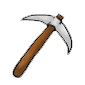
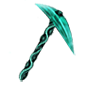
We can now equip items after we've picked it up

Changed region(s): [[0.1412, 0.0235, 0.8941, 0.9647]]

diff --git a/WinterDreams/Player.cpp b/WinterDreams/Player.cpp
@@ -47,6 +47,7 @@ PlayerSpecs& PlayerSpecs::get() {
 Player::Player(sf::FloatRect initialPosition, int lightLevel, bool startEnabled) :
 	GraphicalEntity( startEnabled ),
 	mActionCooldown( 0 ),
+	mIsActionActive( false),
 	mInventory (Inventory() ),
 	mMoveSpeed( PlayerSpecs::get().mMoveSpeed ),
 	mMovementMode(NORMAL),
@@ -58,14 +59,7 @@ Player::Player(sf::FloatRect initialPosition, int lightLevel, bool startEnabled)
 	//construct the animation map
 	Animation::fromListToMap(p.mAnimSpecList, FS_DIR_OBJECTANIMATIONS + "player/", &mAnimationMap);
 	mCurrentAnimation_p = &mAnimationMap.begin()->second;
-
-	mInventory.giveItem("pickaxe", 1);
-	mInventory.giveItem("wheel", 1);
-	mInventory.giveItem("shoes", 1);
-	mInventory.giveItem("orb1", 1);
-	mInventory.giveItem("orb2", 1);
-	mInventory.giveItem("orb3", 1);
-	mInventory.giveItem("orb1", 1);
+	
 }
 
 Player::~Player() {}
@@ -161,17 +155,17 @@ void Player::updateMovement(SubLevel* subLevel_p) {
 void Player::updateAnimations(SubLevel* subLevel_p) {
 	/////////////////////////////////////////////////////////////////
 	if( mDirection.x >= 1) {
-		if( mDirection.y == 1 )
+		if( mDirection.y >= 1 )
 			mCurrentAnimation_p = &mAnimationMap.find("front")->second;
-		if( mDirection.y == -1 )
+		if( mDirection.y <= -1 )
 			mCurrentAnimation_p = &mAnimationMap.find("right")->second;
 		if( mDirection.y == 0 )
 			mCurrentAnimation_p =  &mAnimationMap.find("frontright")->second;
 	}
 	if( mDirection.x <= -1) {
-		if( mDirection.y == 1 )
+		if( mDirection.y >= 1 )
 			mCurrentAnimation_p = &mAnimationMap.find("left")->second;
-		if( mDirection.y == -1 )
+		if( mDirection.y <= -1 )
 			mCurrentAnimation_p = &mAnimationMap.find("back")->second;
 		if( mDirection.y == 0 )
 			mCurrentAnimation_p = &mAnimationMap.find("backleft")->second;
@@ -190,22 +184,18 @@ void Player::updateAnimations(SubLevel* subLevel_p) {
 }
 
 void Player::updateActions(SubLevel* subLevel_p) {
-	--mActionCooldown;
+	if( mActionCooldown > 0 )
+		--mActionCooldown;
 
-	if (sf::Keyboard::isKeyPressed(sf::Keyboard::A) && mActionCooldown <= 0) {
-		auto rect = mHitBox;
-		rect.left += mHitBox.width;
-		rect.top += mHitBox.height;
-		subLevel_p->addGraphicalEntity(std::shared_ptr<DamageHitBox>( new DamageHitBox(rect, 2, DamageHitBox::PICKAXE ) ) );
-		mActionCooldown = 60;
+	if( mActionCooldown == 1 && mIsActionActive ){
+		mActionCooldown = 2;
+		mIsActionActive = false;
+	}
+	else if( InputManager::get().isSelectDown() && mActionCooldown <= 0 ){
+		mInventory.equipNext();
+		mActionCooldown = 5;
 	}
 
-	if (sf::Keyboard::isKeyPressed(sf::Keyboard::Q) && mActionCooldown <= 0) {
-		auto rect = mHitBox;
-		rect.left += 40;
-		rect.top += 40;
-		subLevel_p->addGraphicalEntity(std::shared_ptr<Crystal>( new Crystal(rect, true) ) );
-
-		mActionCooldown = 60;
-	}
+	if( InputManager::get().isSelectDown() || InputManager::get().isStartDown() )
+		mIsActionActive = true;
 }

diff --git a/WinterDreams/Inventory.cpp b/WinterDreams/Inventory.cpp
@@ -31,6 +31,9 @@ void Inventory::giveItem(std::string item, unsigned short){
 		// list
 		/////////////////////////////////////////
 	mInventoryList.push_back( item );
+	
+	if( getCurrentEquip() == "")
+		equipNext();
 }
 
 void Inventory::takeItem(std::string item, unsigned short){
@@ -88,48 +91,15 @@ void Inventory::equipNext() {
 	} while(tempIter != mCurrentItem);
 }
 
-void Inventory::equipPrevious() {
-	using namespace std;
-		/////////////////////////////////////////
-		// If there is no items in the inventory,
-		// end the function
-		/////////////////////////////////////////
-	if( mInventoryList.size() == 0 )
-		return;
-
-	list<string>::reverse_iterator tempIter(mCurrentItem);
-		/////////////////////////////////////////
-		// Iterate over the inventory list and search
-		// for the next item which has an iconindex
-		// (i.e can be equipped) then assign current
-		// item to the found item.
-		/////////////////////////////////////////
-	do{
-		if(tempIter == mInventoryList.rend() )
-			tempIter = mInventoryList.rbegin();
-		
-		else
-			++tempIter;
-		
-		if( tempIter != mInventoryList.rend() ){
-			auto id = ITEMS_PTREE.get<int>(*tempIter + ".iconindex", 0);
-			if( id > 0 ){
-				//mCurrentItem = (tempIter+1).base();
-				++tempIter;
-				mCurrentItem = tempIter.base();
-				--tempIter;
-			}
-		}
-		
-	} while( --(tempIter.base()) != mCurrentItem );
-}
-
 std::string Inventory::getCurrentEquip() const{
 		/////////////////////////////////////////
 		// If mCurrentItem == mInventoryList.end(),
 		//  return ""
+		// Else if
+		//	mCurrentItem.iconindex == 0
+		//	return ""
 		// Else
 		//  return *mCurrentItem
 		/////////////////////////////////////////
-	return (mCurrentItem == mInventoryList.end() ) ? "" : *mCurrentItem;
+	return (mCurrentItem == mInventoryList.end() ) ? "" : (ITEMS_PTREE.get<int>(*mCurrentItem + ".iconindex", 0) == 0) ? "" : *mCurrentItem;
 }

diff --git a/WinterDreams/InventoryDisplay.cpp b/WinterDreams/InventoryDisplay.cpp
@@ -28,25 +28,32 @@ private:
 };
 ////////////////////////////////////////////////////////////////////////////////
 InvDispSpecs::InvDispSpecs() {
-	auto& obj = PropertyManager::get().getObjectSettings();
-	auto& itemdisp = obj.get_child( "objects.items" );
+	auto& obj = PropertyManager::get().getGeneralSettings();
+	auto& itemdisp = obj.get_child( "itemdisplay" );
 		//Get the constants out of the ptree
 	mXPos = itemdisp.get<int>("xfromleft");
 	mYPos = itemdisp.get<int>("yfromtop");
 	mIconsAppart = itemdisp.get<int>("iconsappart");
 		//Parse the specs for the animations into the AnimationSpecsList
 	AnimationSpecs::parse( itemdisp, mAnimSpecList );
-
+		/////////////////////////////////////////////////
 		//Iterate over the animations to get each icons index.
 		//This will be used to decide how they will be ordered
+		/////////////////////////////////////////////////
 	auto& anims = itemdisp.get_child("animations");
 	for( auto iter = anims.begin(), end = anims.end(); iter != end; ++iter) {
 		std::string s = iter->first;
 		int index = iter->second.get<int>("iconindex", -1);
+			/////////////////////////////////////////////////
 			//If the animation didn't have an index, add it to the auxIcon list
-		if(index < 0 )
+			/////////////////////////////////////////////////
+		if(index <= 0 ){
 			mAuxIconList.push_back(s);
+			continue;
+		}
+			/////////////////////////////////////////////////
 			//Else, insert the pair
+			/////////////////////////////////////////////////
 		std::pair<std::string, int> pair(s, index);
 		mEquipIconIndices.insert( pair );
 	}

diff --git a/WinterDreams/Inventory.h b/WinterDreams/Inventory.h
@@ -17,22 +17,17 @@ public:
 	/////////////////////////////////////////////////////////
     // /Adds a number of item to the inventory.
     /////////////////////////////////////////////////////////
-	void giveItem(std::string item, unsigned short);
+	void giveItem(std::string item, unsigned short = 0);
     /////////////////////////////////////////////////////////
 	// /Removes a number of item to the inventory.
     // /If the item hasn't been mapped, does nothing.
     /////////////////////////////////////////////////////////
-	void takeItem(std::string item, unsigned short);
+	void takeItem(std::string item, unsigned short = 0);
 	/////////////////////////////////////////////////////////
 	// /Equips the next item among the equipable items currently
 	// /in the players inventory
     /////////////////////////////////////////////////////////
 	void equipNext();
-	/////////////////////////////////////////////////////////
-	// /Equips the previous item among the equipable items 
-	// /currently in the players inventory
-    /////////////////////////////////////////////////////////
-	void equipPrevious();
 	/////////////////////////////////////////////////////////
 	// Returns the name of the item currently
 	// equiped. 

diff --git a/WinterDreams/Item.cpp b/WinterDreams/Item.cpp
@@ -55,7 +55,7 @@ Item::Item(sf::FloatRect position, std::string itemName, bool startEnabled) :
 		auto file = iter->mFileName;
 		auto name = iter->mAnimName;
 
-		mAnimation = new Animation(FS_DIR_OBJECTANIMATIONS +"itemdisplay/"+ file , w, h, nos, fps, xO, yO);
+		mAnimation = new Animation(FS_DIR_OBJECTANIMATIONS +"item/"+ file , w, h, nos, fps, xO, yO);
 	}
 }
 

diff --git a/WinterDreams/Player.h b/WinterDreams/Player.h
@@ -143,6 +143,7 @@ private:
 	Inventory						 mInventory;		//The avatar's inventory
 	sf::Vector2i					 mDirection;		//The avatar's direction
 	int								 mActionCooldown;	//Regulates the avatar's action cooldowns
+	bool							 mIsActionActive;	//Keeps track of whether an action is active or not
 	//No copies
 	Player::Player( const Player& player );
 	//No copies
